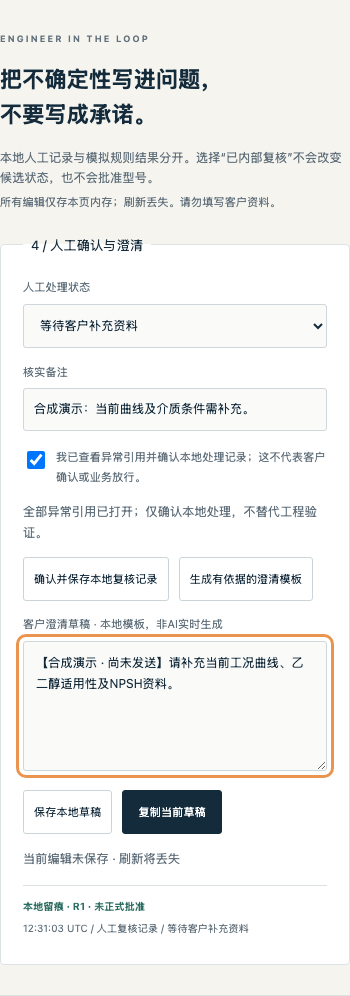
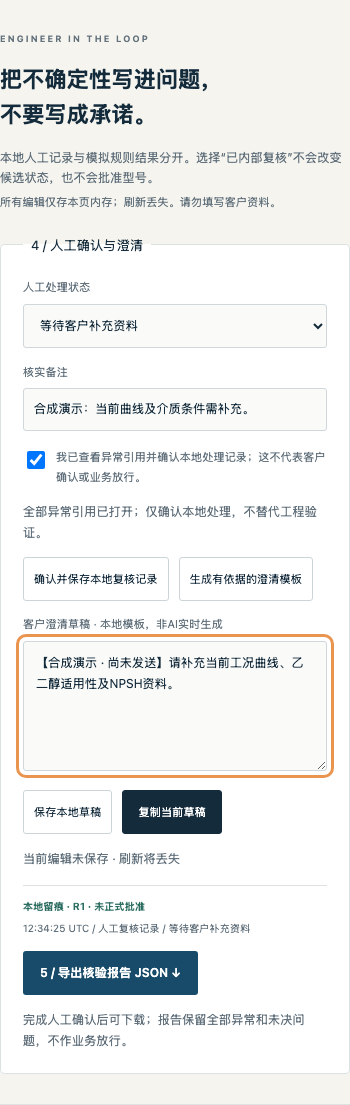
fix: keep evidence review and report download within mobile reach

Changed region(s): [[0.0, 0.0311, 0.9714, 0.9649]]

diff --git a/app.js b/app.js
@@ -148,9 +148,9 @@
   function say(text,error=false){clearTimeout(toastTimer);$('message').textContent=text;$('message').dataset.error=String(error);$('message').hidden=false;toastTimer=setTimeout(()=>$('message').hidden=true,6500);}
   function cite(ref){const b=node('button',ref.source_id+' / '+ref.version+' · 第'+ref.line+'行','cite-button');b.type='button';b.dataset.document=ref.source_id;b.dataset.line=String(ref.line);return b;}
   function refs(container,list){const row=node('div',undefined,'citation-row');list.forEach(ref=>row.append(cite(ref)));container.append(row);}
-  function showSource(id,line=0){const d=M.docs(scenario,expression).find(d=>d.id===id);if(!d)return;const box=$('sem-reference');box.replaceChildren();const header=node('div',undefined,'source-heading');header.append(node('h3',d.name),node('span',d.id+' · '+d.version,'tag'));box.append(header,node('p',result&&M.usable(result)?'合成原文 · 当前预设版本 · 仅本地引用匹配':'预置或历史文本 · 不构成当前有效证据','micro'));const ol=node('ol',undefined,'source-lines');d.lines.forEach((text,i)=>ol.append(node('li',text,i+1===line?'matched':'')));box.append(ol);if(line){box.append(node('span','完整引用 / 第'+line+'行','quote-label'),node('blockquote',d.lines[line-1]));}W.openEvidence(result,id,line);controls();box.focus({preventScroll:true});box.scrollIntoView({behavior:window.matchMedia('(prefers-reduced-motion: reduce)').matches?'auto':'smooth',block:'nearest'});}
+  function showSource(id,line=0){const d=M.docs(scenario,expression).find(d=>d.id===id);if(!d)return;const box=$('sem-reference');box.replaceChildren();const header=node('div',undefined,'source-heading');header.append(node('h3',d.name),node('span',d.id+' · '+d.version,'tag'));box.append(header,node('p',result&&M.usable(result)?'合成原文 · 当前预设版本 · 仅本地引用匹配':'预置或历史文本 · 不构成当前有效证据','micro'));const ol=node('ol',undefined,'source-lines');d.lines.forEach((text,i)=>ol.append(node('li',text,i+1===line?'matched':'')));box.append(ol);if(line){box.append(node('span','完整引用 / 第'+line+'行','quote-label'),node('blockquote',d.lines[line-1]));}W.openEvidence(result,id,line);if(M.usable(result)){const actions=node('div',undefined,'panel-actions'),next=nextEvidence();if(next){const b=node('button','下一条异常证据 →','outline');b.type='button';b.dataset.document=next.source_id;b.dataset.line=String(next.line);actions.append(b);}else{const a=node('a','证据已全部打开，继续人工确认 ↓','outline');a.href='#sem-human';actions.append(a);}const back=node('a','返回异常清单 ↑','quiet-link');back.href='#sem-findings';actions.append(back);box.append(actions);}controls();box.focus({preventScroll:true});box.scrollIntoView({behavior:window.matchMedia('(prefers-reduced-motion: reduce)').matches?'auto':'smooth',block:'nearest'});}
   function docs(){const list=$('sem-docs');list.replaceChildren();M.docs(scenario,expression).forEach((d,i)=>{const b=node('button',undefined,'document-button');b.type='button';b.dataset.document=d.id;b.append(node('span',i===0?'RFQ':'SPEC','doc-icon'),node('strong',d.name),node('small',d.id+' · '+d.version+' · '+d.role));list.append(b);});$('sem-revision').textContent='当前询盘 '+(scenario==='revision'?'R2':'R1');$('sem-expression').disabled=scenario!=='align'||busy;document.querySelectorAll('[data-scenario]').forEach(b=>b.setAttribute('aria-pressed',String(b.dataset.scenario===scenario)));}
-  function controls(){workflowControls();const audit=$('sem-audit');audit.replaceChildren();if(result&&M.usable(result)&&result.audit.length){audit.append(node('strong','本地留痕 · '+result.request_revision+' · 未正式批准'));result.audit.slice(-4).forEach(a=>audit.append(node('p',a.at.slice(11,19)+' UTC / '+(a.type==='LOCAL_REVIEW'?'人工复核记录':'编辑保存记录')+' / '+(a.status||result.review.status))));}else audit.append(node('span','尚无当前结果的本地留痕。'));const valid=M.usable(result);$('sem-expression').disabled=scenario!=='align'||busy;$('sem-human-fields').disabled=!valid||busy;$('sem-run').disabled=busy;$('sem-run').textContent=busy?'正在运行本地模拟…':'运行模拟语义核验 →';$('sem-corrupt').disabled=busy;$('sem-export').disabled=!result||busy||(valid&&!W.canExport(result));$('sem-export').textContent=result&&!valid?'导出诊断记录 JSON（非核验报告）':'导出核验报告 JSON ↗';$('sem-invalidate').disabled=!valid||busy;$('sem-copy').disabled=!valid||busy||!$('sem-draft').value.trim();$('sem-save-draft').disabled=!valid||busy||!$('sem-draft').value.trim();$('sem-save-state').textContent=!valid?'无有效模拟证据，人工操作已停用':savedVersion===version?'当前记录已保存在本页内存 · 未发送 / 未批准':'当前编辑未保存 · 刷新将丢失';}
+  function controls(){workflowControls();const audit=$('sem-audit');audit.replaceChildren();if(result&&M.usable(result)&&result.audit.length){audit.append(node('strong','本地留痕 · '+result.request_revision+' · 未正式批准'));result.audit.slice(-4).forEach(a=>audit.append(node('p',a.at.slice(11,19)+' UTC / '+(a.type==='LOCAL_REVIEW'?'人工复核记录':'编辑保存记录')+' / '+(a.status||result.review.status))));}else audit.append(node('span','尚无当前结果的本地留痕。'));const valid=M.usable(result);$('sem-expression').disabled=scenario!=='align'||busy;$('sem-human-fields').disabled=!valid||busy;$('sem-run').disabled=busy;$('sem-run').textContent=busy?'正在运行本地模拟…':'运行模拟语义核验 →';$('sem-corrupt').disabled=busy;$('sem-report-download').disabled=busy||!W.canExport(result);$('sem-export').disabled=!result||busy||(valid&&!W.canExport(result));$('sem-export').textContent=result&&!valid?'导出诊断记录 JSON（非核验报告）':'导出核验报告 JSON ↗';$('sem-invalidate').disabled=!valid||busy;$('sem-copy').disabled=!valid||busy||!$('sem-draft').value.trim();$('sem-save-draft').disabled=!valid||busy||!$('sem-draft').value.trim();$('sem-save-state').textContent=!valid?'无有效模拟证据，人工操作已停用':savedVersion===version?'当前记录已保存在本页内存 · 未发送 / 未批准':'当前编辑未保存 · 刷新将丢失';}
   function workflowControls(){
     const valid=M.usable(result),required=W.required(result),viewed=result?.workflow?.viewed_evidence||[],complete=W.evidenceComplete(result),confirmed=W.canExport(result);
     const phase=!result?(busy?1:0):!valid?1:!complete?2:!confirmed?3:4;
@@ -161,7 +161,9 @@
     $('sem-save-review').disabled=busy||!complete||!W.decisions.includes($('sem-review').value)||!$('sem-note').value.trim()||!$('sem-ack').checked;
     document.querySelectorAll('#sem-output button[data-line]').forEach(b=>{const opened=viewed.some(ref=>ref.source_id===b.dataset.document&&ref.line===Number(b.dataset.line));b.dataset.viewed=String(opened);b.setAttribute('aria-label',b.textContent+(opened?'，已打开':''));});
   }
-  $('flow-action').addEventListener('click',e=>{if(M.usable(result)&&!W.evidenceComplete(result)){e.preventDefault();const next=W.required(result).find(ref=>!result.workflow.viewed_evidence.some(v=>v.source_id===ref.source_id&&v.version===ref.version&&v.line===ref.line));if(next)showSource(next.source_id,next.line);}});
+  function nextEvidence(){return W.required(result).find(ref=>!result.workflow.viewed_evidence.some(v=>v.source_id===ref.source_id&&v.version===ref.version&&v.line===ref.line));}
+  $('flow-action').addEventListener('click',e=>{if(M.usable(result)&&!W.evidenceComplete(result)){e.preventDefault();const next=nextEvidence();if(next)showSource(next.source_id,next.line);}});
+  $('sem-report-download').addEventListener('click',()=>$('sem-export').click());
   function clearInput(){for(const id of ['sem-note','sem-draft'])$(id).value='';$('sem-review').value='待工程师复核';$('sem-ack').checked=false;version++;savedVersion=-1;}
   function reset(){generation++;busy=false;result=null;clearInput();docs();render();$('sem-reference').replaceChildren(node('p','点击合成资料卡或结果引用，查看完整原句。','reference-placeholder'));for(let i=0;i<3;i++)$('sem-step-'+i).className='';}
   function render(){const box=$('sem-output');box.replaceChildren();const badge=$('sem-badge');badge.className='badge neutral';

diff --git a/index.html b/index.html
@@ -38,7 +38,7 @@
     <div class="panel-actions"><button type="button" id="sem-invalidate" class="outline" disabled>模拟来源失效</button><button type="button" id="sem-export" class="outline" disabled>导出核验报告 JSON ↗</button><button type="button" id="sem-reset" class="text-button">↺ 重置语义演示</button></div>
   </div></div>
   <div id="sem-reference" class="reference-view" tabindex="-1" aria-label="合成原文证据" aria-live="polite"><div class="reference-placeholder">点击资料卡或结果中的引用，查看对应的完整合成原句。引用定位不等于真实来源认证。</div></div>
-  <div class="semantic-human" id="sem-human"><div><div class="eyebrow">ENGINEER IN THE LOOP</div><h3>把不确定性写进问题，<br>不要写成承诺。</h3><p>本地人工记录与模拟规则结果分开。选择“已内部复核”不会改变候选状态，也不会批准型号。</p><span class="micro">所有编辑仅存本页内存；刷新丢失。请勿填写客户资料。</span></div><fieldset id="sem-human-fields" disabled><legend>4 / 人工确认与澄清</legend><div class="review-row"><label for="sem-review">人工处理状态<select id="sem-review"><option>待工程师复核</option><option>已内部复核</option><option>等待客户补充资料</option><option>不适用</option></select></label><label for="sem-note">核实备注<input type="text" id="sem-note" maxlength="1500" placeholder="仅填写合成演示备注"></label></div><label class="review-ack"><input type="checkbox" id="sem-ack"> 我已查看异常引用并确认本地处理记录；这不代表客户确认或业务放行。</label><p id="sem-review-gate" class="micro" role="status"></p><div class="panel-actions"><button class="outline" id="sem-save-review" type="button">确认并保存本地复核记录</button><button class="outline" id="sem-generate" type="button">生成有依据的澄清模板</button></div><label for="sem-draft">客户澄清草稿 · 本地模板，非AI实时生成<textarea id="sem-draft" rows="5" maxlength="5000" placeholder="先完成模拟核验，再生成并人工修改草稿。"></textarea></label><div class="panel-actions"><button class="outline" id="sem-save-draft" type="button">保存本地草稿</button><button class="dark-button" id="sem-copy" type="button" disabled>复制当前草稿</button></div><p id="sem-save-state" class="save-status" aria-live="polite">尚无有效记录</p><div id="sem-audit" class="audit-trail" aria-live="polite">尚无本地留痕。</div></fieldset></div>
+  <div class="semantic-human" id="sem-human"><div><div class="eyebrow">ENGINEER IN THE LOOP</div><h3>把不确定性写进问题，<br>不要写成承诺。</h3><p>本地人工记录与模拟规则结果分开。选择“已内部复核”不会改变候选状态，也不会批准型号。</p><span class="micro">所有编辑仅存本页内存；刷新丢失。请勿填写客户资料。</span></div><fieldset id="sem-human-fields" disabled><legend>4 / 人工确认与澄清</legend><div class="review-row"><label for="sem-review">人工处理状态<select id="sem-review"><option>待工程师复核</option><option>已内部复核</option><option>等待客户补充资料</option><option>不适用</option></select></label><label for="sem-note">核实备注<input type="text" id="sem-note" maxlength="1500" placeholder="仅填写合成演示备注"></label></div><label class="review-ack"><input type="checkbox" id="sem-ack"> 我已查看异常引用并确认本地处理记录；这不代表客户确认或业务放行。</label><p id="sem-review-gate" class="micro" role="status"></p><div class="panel-actions"><button class="outline" id="sem-save-review" type="button">确认并保存本地复核记录</button><button class="outline" id="sem-generate" type="button">生成有依据的澄清模板</button></div><label for="sem-draft">客户澄清草稿 · 本地模板，非AI实时生成<textarea id="sem-draft" rows="5" maxlength="5000" placeholder="先完成模拟核验，再生成并人工修改草稿。"></textarea></label><div class="panel-actions"><button class="outline" id="sem-save-draft" type="button">保存本地草稿</button><button class="dark-button" id="sem-copy" type="button" disabled>复制当前草稿</button></div><p id="sem-save-state" class="save-status" aria-live="polite">尚无有效记录</p><div id="sem-audit" class="audit-trail" aria-live="polite">尚无本地留痕。</div><div class="panel-actions"><button class="primary" id="sem-report-download" type="button" disabled>5 / 导出核验报告 JSON ↓</button></div><p class="micro">完成人工确认后可下载；报告保留全部异常和未决问题，不作业务放行。</p></fieldset></div>
 </section>
 <section class="engineering" id="engineering">
   <div class="section-head"><div><div class="eyebrow">INDUSTRIAL CONTEXT MATTERS / 02</div><h2>工程师关心的，远不止两个数字。</h2></div></div>

diff --git a/styles.css b/styles.css
@@ -10,3 +10,4 @@
 /* Guided review path; keep the controls usable at 320px and with keyboard. */
 .workflow-nav{margin:24px 0;padding:20px;background:#e9efea;border:1px solid var(--line);border-radius:4px}.workflow-nav ol{display:grid;grid-template-columns:repeat(5,minmax(0,1fr));gap:12px;list-style:none;padding:0;font-size:12px}.workflow-nav li{border-top:3px solid #c4cec6;padding-top:10px}.workflow-nav li.active{border-color:var(--orange);font-weight:700}.workflow-nav li.done{border-color:var(--green)}.workflow-nav p{font-size:12px;margin:16px 0}.workflow-nav .outline{display:inline-flex;font-size:12px}.flow-heading{font-size:16px;margin:25px 0 15px}.workflow-findings{margin:25px 0;scroll-margin-top:20px}.workflow-findings>h3{font-size:17px;display:block}.finding-card{margin-top:12px;border-left:3px solid var(--orange);padding:14px;background:#faf5ef}.finding-card h4{font-size:13px}.finding-card p{font-size:12px;margin-top:8px}.cite-button[data-viewed=true]::after{content:' · 已打开';color:var(--green)}.review-ack{display:flex!important;align-items:flex-start;gap:8px;line-height:1.8;margin:16px 0}.review-ack input{flex:none;margin-top:4px;width:18px;height:18px}#sem-human,#sem-export,#sem-run{scroll-margin-top:25px}:focus-visible{outline:3px solid var(--orange);outline-offset:4px}#sem-reference:focus{outline:2px solid var(--green);outline-offset:3px}.workflow-nav a,.workflow-findings button{min-height:44px}
 @media(max-width:720px){.workflow-nav{padding:16px}.workflow-nav ol{grid-template-columns:repeat(2,minmax(0,1fr));gap:14px;font-size:12px}.workflow-nav p{line-height:1.8}.workflow-nav .outline{width:100%;justify-content:center}.finding-card{padding:12px}.citation-row .cite-button{min-height:44px}.analysis-top{flex-wrap:wrap}.flow-heading{font-size:15px}}
+.reference-view .panel-actions{flex-wrap:wrap}.reference-view a.outline{display:inline-flex;align-items:center;min-height:44px;font-size:12px}#sem-report-download{max-width:100%;font-size:12px;min-height:44px}

diff --git a/README.md b/README.md
@@ -51,9 +51,9 @@
 
 1. 在“需求—规格对照”选择合成询盘资料包，可选 R1、多单位表达、R2 变更或压力语义陷阱。复用预置材料；不新增文件摄取或任意文本理解。
 2. 点击“运行模拟语义核验”。“发现异常”集中展示 A 的工况缺口、B 的配对点证据不足和 C 的温度硬约束，复用原有候选规则。
-3. 点击异常引用或动线中的“打开一条待看证据”，查看来源 ID、版本、行号和完整原句。重复引用只记一次，当前预设共 7 条异常证据；打开记录仅说明交互发生，不证明理解或来源认证。
+3. 点击异常引用或动线中的“打开一条待看证据”，随后可在原文旁连续查看“下一条异常证据”，查看来源 ID、版本、行号和完整原句。重复引用只记一次，当前预设共 7 条异常证据；打开记录仅说明交互发生，不证明理解或来源认证。
 4. 选择处理状态、填写**合成**核实备注，勾选本地复核声明，点击“确认并保存本地复核记录”。待复核、空备注、缺引用或未勾选均不能确认。人工确认只保存处理记录，不消除异常，不批准选型或报价。
-5. 点击“导出核验报告 JSON”。报告包含异常、原文证据、打开记录、本地确认、未决澄清项和明确的合成边界；未保存草稿另列 `current_local_edits`，未测模型指标保持 `null`。
+5. 在复核区点击“导出核验报告 JSON”。报告包含异常、原文证据、打开记录、本地确认、未决澄清项和明确的合成边界；未保存草稿另列 `current_local_edits`，未测模型指标保持 `null`。
 
 修改复核备注、状态或声明会撤销当前确认，须再次点击确认。更换资料、表达、错误引用条件、重新运行、重置及模拟来源失效均不继承旧确认。来源失效／引用拒绝只能下载 `SYNTHETIC_DIAGNOSTIC_ONLY` 诊断记录，不会伪装成已复核报告。原85/58基础体验仍为独立演示，其原始记录下载不属于这条新报告动线。
 

diff --git a/docs/workflow-review.md b/docs/workflow-review.md
@@ -16,9 +16,9 @@
 
 1. 打开根目录 `index.html`，进入“需求—规格对照”，选择默认 R1资料包及“不同单位 · 85000 litres/hour”。
 2. 运行本地模拟。查看三条异常，核对受控换算为85 m³/h且保留32m和介质条件。
-3. 点击顶部动线中的“打开一条待看证据”7次，或手动打开异常卡中的全部唯一引用。检查原文、版本、行号、引用高亮与“已打开”状态；资料卡预览不计为逐行证据查看。
+3. 点击顶部动线中的“打开一条待看证据”，随后在原文旁连续点击“下一条异常证据”至7条全部打开；也可手动打开异常卡的全部唯一引用。检查原文、版本、行号、引用高亮与“已打开”状态；资料卡预览不计为逐行证据查看。
 4. 选择“等待客户补充资料”，填写“合成演示：当前曲线及介质条件需补充。”，勾选声明，点击确认保存。
-5. 可选生成澄清模板并编辑；点击“导出核验报告 JSON”，检查报告类型、合成标记、确认范围、未决问题和null指标。
+5. 可选生成澄清模板并编辑；直接在复核区点击“导出核验报告 JSON”，检查报告类型、合成标记、确认范围、未决问题和null指标。
 6. 修改备注，确认导出重新锁定；保存草稿不能解锁。重新确认后模拟来源失效，检查备注、草稿、候选、发现、审计和确认均撤销；只能导出诊断。
 7. 切换R2，确认95要求使A变为证据不足；体验出口压力语义陷阱及错误引用拒绝。展开旧85/58演示，确认冲突与撤销仍可使用。
 
